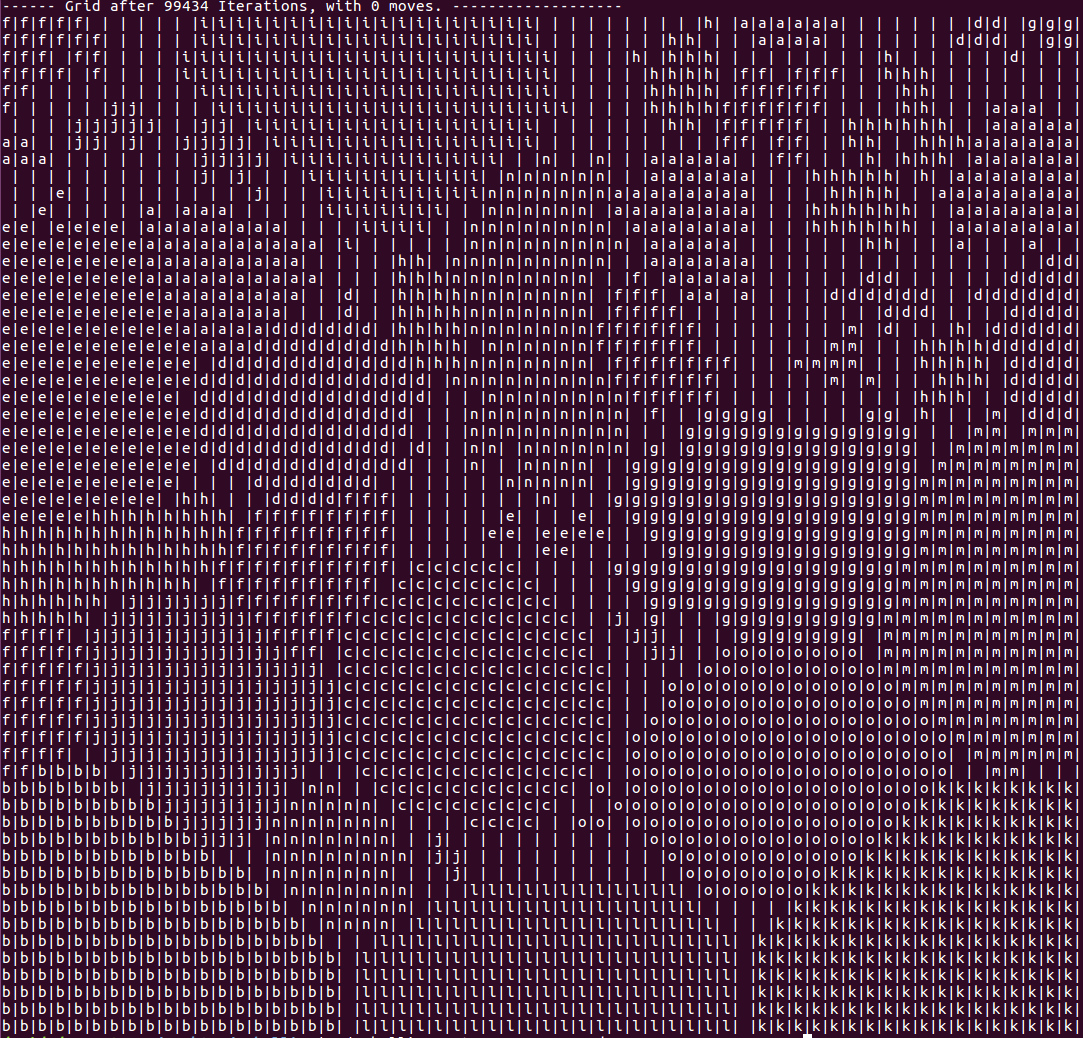
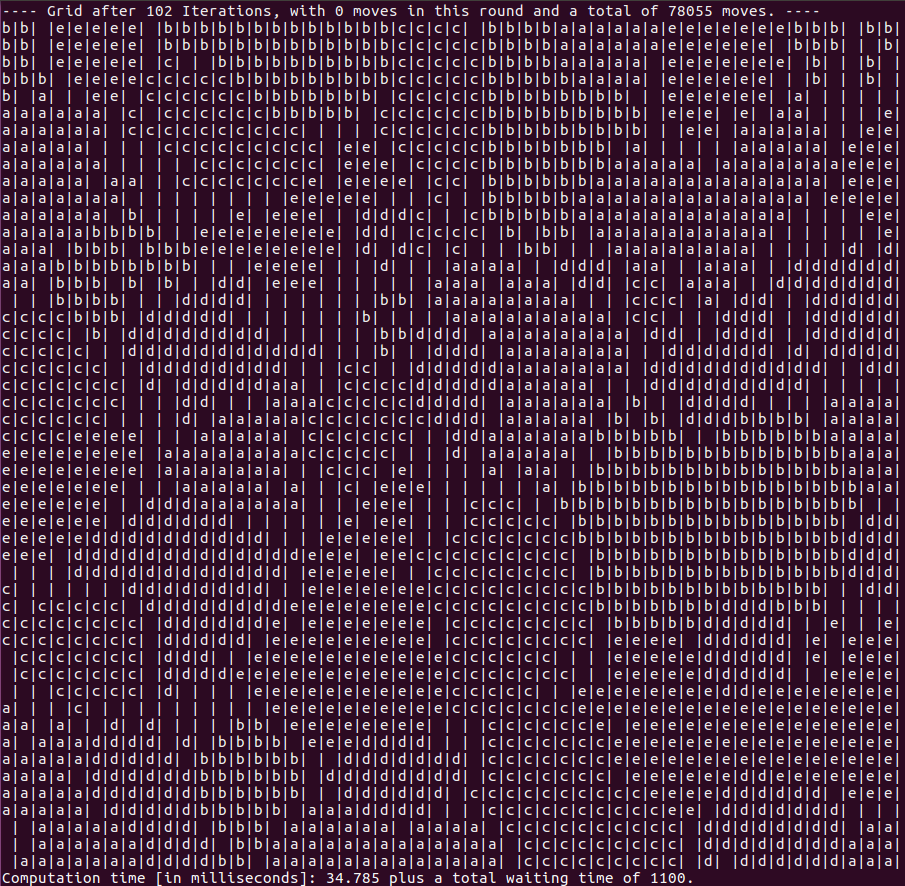
added timer and updated pictures

diff --git a/main.cpp b/main.cpp
@@ -1,157 +1,7 @@
 #include "grid.h"
-
-static void show_usage()
-{
-    std::cerr << "Usage Options:\n"
-              << "  -h,--help\t\tShow this help message\n"
-              << "  -s,--seed\t\tSet seed, defaults to current time\n"
-              << "  -g,--gridSize\t\tSpecify the length of a simulation grid, defaults to 10 (i.e., 10x10)\n"
-              << "  -p,--percEmpty\tSpecify the percentage of empty grids, defaults to 0.2\n"
-              << "  -t,--threshold\tSpecify the threshold above which agents are happy, defaults to 0.5\n"
-              << "  -n,--nRaces\t\tSpecify the number of races [2,26], defaults to 3\n"
-              << "  -m,--maxIter\t\tSpecify the maximum number of iterations, defaults to 10,000\n"
-              << "  -pi,--plotInterval\tSpecify the intervals in which the plots should be updated, defaults to 100\n"
-              << "  -d,--displayTime\tSpecify the display time for plots [in microseconds], defaults to 10,000\n";
-}
-struct Inputs {
-    unsigned int gridSize;
-    double percEmpty;
-    unsigned int nRaces;
-    unsigned int maxIter;
-    unsigned int plotInterval;
-    unsigned int sleep;
-    unsigned int seed;
-    double threshold;
-};
-Inputs handleInputs(int argc, char const *argv[]) {
-    Inputs inputs;
-    int tmp;
-    double tmpDbl;
-
-    // default values
-    inputs.gridSize = 10;
-    inputs.percEmpty = 0.2;
-    inputs.threshold = 0.5;
-    inputs.nRaces  = 3;
-    inputs.maxIter = 10000;
-    inputs.plotInterval = 100;
-    inputs.sleep = 10000;
-    inputs.seed = (unsigned int) time(0);
-
-    // check the inputs and update "inputs"
-    for (int i = 1; i < argc; ++i) {
-        std::string arg = argv[i];
-        if ((arg == "-h") || (arg == "--help")) {
-            show_usage();
-            std::exit(1);
-        } else if ((arg == "-g") || (arg == "--gridSize")) {
-            if (i + 1 < argc) { // Make sure we aren't at the end of argv!
-                tmp = std::stoi(argv[++i]);
-                if (tmp < 0) {
-                    tmp = -tmp;
-                    std::cout << "gridSize is smaller than 0, taking the absolute value of: " << tmp << "\n";
-                }
-                inputs.gridSize = (unsigned int) tmp;
-            } else { // Uh-oh, there was no argument to the destination option.
-                std::cerr << "--gridSize option requires one argument.\n";
-                std::exit(1);
-            }
-        } else if ((arg == "-p") || (arg == "--percEmpty")) {
-            if (i + 1 < argc) { // Make sure we aren't at the end of argv!
-                tmpDbl = std::stod(argv[++i]);
-                if (tmpDbl < 0) {
-                    tmpDbl = -tmpDbl;
-                    std::cout << "percEmpty is smaller than 0, taking the absolute value of: " << tmpDbl << "\n";
-                }
-                inputs.percEmpty = tmpDbl;
-            } else { // Uh-oh, there was no argument to the destination option.
-                std::cerr << "--percEmpty option requires one argument.\n";
-                std::exit(1);
-            }
-        } else if ((arg == "-t") || (arg == "--threshold")) {
-            if (i + 1 < argc) { // Make sure we aren't at the end of argv!
-                tmpDbl = std::stod(argv[++i]);
-                if (tmpDbl < 0) {
-                    tmpDbl = -tmpDbl;
-                    std::cout << "threshold is smaller than 0, taking the absolute value of: " << tmpDbl << "\n";
-                }
-                inputs.threshold = tmpDbl;
-            } else { // Uh-oh, there was no argument to the destination option.
-                std::cerr << "--threshold option requires one argument.\n";
-                std::exit(1);
-            }
-        } else if ((arg == "-n") || (arg == "--nRaces")) {
-            if (i + 1 < argc) { // Make sure we aren't at the end of argv!
-                tmp = std::stoi(argv[++i]);
-                if (tmp < 0) {
-                    tmp = -tmp;
-                    std::cout << "nRaces is smaller than 0, taking the absolute value of: " << tmp << "\n";
-                }
-                inputs.nRaces = (unsigned int) tmp;
-            } else { // Uh-oh, there was no argument to the destination option.
-                std::cerr << "--nRaces option requires one argument.\n";
-                std::exit(1);
-            }
-        } else if ((arg == "-m") || (arg == "--maxIter")) {
-            if (i + 1 < argc) { // Make sure we aren't at the end of argv!
-                tmp = std::stoi(argv[++i]);
-                if (tmp < 0) {
-                    tmp = -tmp;
-                    std::cout << "maxIter is smaller than 0, taking the absolute value of: " << tmp << "\n";
-                }
-                inputs.maxIter = (unsigned int) tmp;
-            } else { // Uh-oh, there was no argument to the destination option.
-                std::cerr << "--maxIter option requires one argument.\n";
-                std::exit(1);
-            }
-        } else if ((arg == "-pi") || (arg == "--plotInterval")) {
-            if (i + 1 < argc) { // Make sure we aren't at the end of argv!
-                tmp = std::stoi(argv[++i]);
-                if (tmp < 0) {
-                    tmp = -tmp;
-                    std::cout << "plotInterval is smaller than 0, taking the absolute value of: " << tmp << "\n";
-                }
-                inputs.plotInterval = (unsigned int) tmp;
-            } else { // Uh-oh, there was no argument to the destination option.
-                std::cerr << "--plotInterval option requires one argument.\n";
-                std::exit(1);
-            }
-        } else if ((arg == "-d") || (arg == "--displayTime")) {
-            if (i + 1 < argc) { // Make sure we aren't at the end of argv!
-                tmp = std::stoi(argv[++i]);
-                if (tmp < 0) {
-                    tmp = -tmp;
-                    std::cout << "display is smaller than 0, taking the absolute value of: " << tmp << "\n";
-                }
-                inputs.sleep = (unsigned int) tmp;
-            } else { // Uh-oh, there was no argument to the destination option.
-                std::cerr << "--displayTime option requires one argument.\n";
-                std::exit(1);
-            }
-        } else if ((arg == "-s") || (arg == "--seed")) {
-            if (i + 1 < argc) { // Make sure we aren't at the end of argv!
-                tmp = std::stoi(argv[++i]);
-                if (tmp < 0) {
-                    tmp = -tmp;
-                    std::cout << "seed is smaller than 0, taking the absolute value of: " << tmp << "\n";
-                }
-                inputs.seed = (unsigned int) tmp;
-            } else { // Uh-oh, there was no argument to the destination option.
-                std::cerr << "--seed option requires one argument.\n";
-                std::exit(1);
-            }
-        } else {
-            std::cout << "Unknown option \"" << arg << "\", known options include:\n";
-            show_usage();
-            std::exit(1);
-        }
-    }
-    return inputs;
-}
-
+#include "main.h"
 
 int main(int argc, char const *argv[]) {
-
     Inputs inputs = handleInputs(argc, argv);
 
     Grid grid = Grid(inputs.threshold, inputs.seed);

diff --git a/main.h b/main.h
@@ -1,5 +1,152 @@
 #ifndef MAIN_H
 #define MAIN_H
 
+static void show_usage()
+{
+    std::cerr << "Usage Options:\n"
+              << "  -h,--help\t\tShow this help message\n"
+              << "  -s,--seed\t\tSet seed, defaults to current time\n"
+              << "  -g,--gridSize\t\tSpecify the length of a simulation grid, defaults to 10 (i.e., 10x10)\n"
+              << "  -p,--percEmpty\tSpecify the percentage of empty grids, defaults to 0.2\n"
+              << "  -t,--threshold\tSpecify the threshold above which agents are happy, defaults to 0.5\n"
+              << "  -n,--nRaces\t\tSpecify the number of races [2,26], defaults to 3\n"
+              << "  -m,--maxIter\t\tSpecify the maximum number of iterations, defaults to 10,000\n"
+              << "  -pi,--plotInterval\tSpecify the intervals in which the plots should be updated, defaults to 100\n"
+              << "  -d,--displayTime\tSpecify the display time for plots [in microseconds], defaults to 10,000\n";
+}
+struct Inputs {
+    unsigned int gridSize;
+    double percEmpty;
+    unsigned int nRaces;
+    unsigned int maxIter;
+    unsigned int plotInterval;
+    unsigned int sleep;
+    unsigned int seed;
+    double threshold;
+};
+Inputs handleInputs(int argc, char const *argv[]) {
+    Inputs inputs;
+    int tmp;
+    double tmpDbl;
 
+    // default values
+    inputs.gridSize = 10;
+    inputs.percEmpty = 0.2;
+    inputs.threshold = 0.5;
+    inputs.nRaces  = 3;
+    inputs.maxIter = 10000;
+    inputs.plotInterval = 100;
+    inputs.sleep = 10000;
+    inputs.seed = (unsigned int) time(0);
+
+    // check the inputs and update "inputs"
+    for (int i = 1; i < argc; ++i) {
+        std::string arg = argv[i];
+        if ((arg == "-h") || (arg == "--help")) {
+            show_usage();
+            std::exit(1);
+        } else if ((arg == "-g") || (arg == "--gridSize")) {
+            if (i + 1 < argc) { // Make sure we aren't at the end of argv!
+                tmp = std::stoi(argv[++i]);
+                if (tmp < 0) {
+                    tmp = -tmp;
+                    std::cout << "gridSize is smaller than 0, taking the absolute value of: " << tmp << "\n";
+                }
+                inputs.gridSize = (unsigned int) tmp;
+            } else { // Uh-oh, there was no argument to the destination option.
+                std::cerr << "--gridSize option requires one argument.\n";
+                std::exit(1);
+            }
+        } else if ((arg == "-p") || (arg == "--percEmpty")) {
+            if (i + 1 < argc) { // Make sure we aren't at the end of argv!
+                tmpDbl = std::stod(argv[++i]);
+                if (tmpDbl < 0) {
+                    tmpDbl = -tmpDbl;
+                    std::cout << "percEmpty is smaller than 0, taking the absolute value of: " << tmpDbl << "\n";
+                }
+                inputs.percEmpty = tmpDbl;
+            } else { // Uh-oh, there was no argument to the destination option.
+                std::cerr << "--percEmpty option requires one argument.\n";
+                std::exit(1);
+            }
+        } else if ((arg == "-t") || (arg == "--threshold")) {
+            if (i + 1 < argc) { // Make sure we aren't at the end of argv!
+                tmpDbl = std::stod(argv[++i]);
+                if (tmpDbl < 0) {
+                    tmpDbl = -tmpDbl;
+                    std::cout << "threshold is smaller than 0, taking the absolute value of: " << tmpDbl << "\n";
+                }
+                inputs.threshold = tmpDbl;
+            } else { // Uh-oh, there was no argument to the destination option.
+                std::cerr << "--threshold option requires one argument.\n";
+                std::exit(1);
+            }
+        } else if ((arg == "-n") || (arg == "--nRaces")) {
+            if (i + 1 < argc) { // Make sure we aren't at the end of argv!
+                tmp = std::stoi(argv[++i]);
+                if (tmp < 0) {
+                    tmp = -tmp;
+                    std::cout << "nRaces is smaller than 0, taking the absolute value of: " << tmp << "\n";
+                }
+                inputs.nRaces = (unsigned int) tmp;
+            } else { // Uh-oh, there was no argument to the destination option.
+                std::cerr << "--nRaces option requires one argument.\n";
+                std::exit(1);
+            }
+        } else if ((arg == "-m") || (arg == "--maxIter")) {
+            if (i + 1 < argc) { // Make sure we aren't at the end of argv!
+                tmp = std::stoi(argv[++i]);
+                if (tmp < 0) {
+                    tmp = -tmp;
+                    std::cout << "maxIter is smaller than 0, taking the absolute value of: " << tmp << "\n";
+                }
+                inputs.maxIter = (unsigned int) tmp;
+            } else { // Uh-oh, there was no argument to the destination option.
+                std::cerr << "--maxIter option requires one argument.\n";
+                std::exit(1);
+            }
+        } else if ((arg == "-pi") || (arg == "--plotInterval")) {
+            if (i + 1 < argc) { // Make sure we aren't at the end of argv!
+                tmp = std::stoi(argv[++i]);
+                if (tmp < 0) {
+                    tmp = -tmp;
+                    std::cout << "plotInterval is smaller than 0, taking the absolute value of: " << tmp << "\n";
+                }
+                inputs.plotInterval = (unsigned int) tmp;
+            } else { // Uh-oh, there was no argument to the destination option.
+                std::cerr << "--plotInterval option requires one argument.\n";
+                std::exit(1);
+            }
+        } else if ((arg == "-d") || (arg == "--displayTime")) {
+            if (i + 1 < argc) { // Make sure we aren't at the end of argv!
+                tmp = std::stoi(argv[++i]);
+                if (tmp < 0) {
+                    tmp = -tmp;
+                    std::cout << "display is smaller than 0, taking the absolute value of: " << tmp << "\n";
+                }
+                inputs.sleep = (unsigned int) tmp;
+            } else { // Uh-oh, there was no argument to the destination option.
+                std::cerr << "--displayTime option requires one argument.\n";
+                std::exit(1);
+            }
+        } else if ((arg == "-s") || (arg == "--seed")) {
+            if (i + 1 < argc) { // Make sure we aren't at the end of argv!
+                tmp = std::stoi(argv[++i]);
+                if (tmp < 0) {
+                    tmp = -tmp;
+                    std::cout << "seed is smaller than 0, taking the absolute value of: " << tmp << "\n";
+                }
+                inputs.seed = (unsigned int) tmp;
+            } else { // Uh-oh, there was no argument to the destination option.
+                std::cerr << "--seed option requires one argument.\n";
+                std::exit(1);
+            }
+        } else {
+            std::cout << "Unknown option \"" << arg << "\", known options include:\n";
+            show_usage();
+            std::exit(1);
+        }
+    }
+    return inputs;
+}
 #endif

diff --git a/grid.cpp b/grid.cpp
@@ -6,9 +6,15 @@ Grid::Grid(double threshold, int seed) {
     allHappy = false;
     rng.setseed(seed);
     nMoves = 0;
+    totalSleep = 0;
+    
+    // for timing purposes    
+    gettimeofday(&t0, 0);
 }
 
 Grid::~Grid() {
+    gettimeofday(&t1, 0);
+    std::cout << "Computation time [in milliseconds]: " << timedifference_msec(t0, t1) - totalSleep << " plus a total waiting time of " <<  totalSleep << ".\n";
 }
 
 void Grid::initiate(unsigned int gridSize){
@@ -305,7 +311,8 @@ void Grid::simulate(unsigned int nMax, int plotAfter, int sleep) {
         // clears the screen
         if (nSim % plotAfter == 0) {
             drawPlot();
-            usleep(sleep);
+            totalSleep += (float) sleep/1000; // to milliseconds
+            usleep(sleep); // in microseconds
         }
         ++n;
         ++nSim;
@@ -318,4 +325,7 @@ void Grid::simulate(unsigned int nMax, int plotAfter, int sleep) {
     std::cout << "\033[2J\033[1;1H";
     std::cout << "---- Grid after " << nSim << " Iterations, with " << moves << " moves in this round and a total of " << nMoves << " moves. ----\n";
     drawPlot();
+}
+float Grid::timedifference_msec(struct timeval t0, struct timeval t1) {
+    return (t1.tv_sec - t0.tv_sec) * 1000.0f + (t1.tv_usec - t0.tv_usec) / 1000.0f;
 }

diff --git a/grid.h b/grid.h
@@ -6,6 +6,7 @@
 #include "RNG.h"
 #include <iostream>
 #include <unistd.h>
+#include <sys/time.h>
 
 class Grid {
 public:
@@ -32,6 +33,7 @@ public:
     void move();
     void countElements();
     GridEl* next(GridEl* reference);
+    float timedifference_msec(struct timeval t0, struct timeval t1);
 
 private:
     double happinessThreshold;
@@ -44,5 +46,8 @@ private:
     double findRatio(GridEl* reference);
     std::vector<char> raceChars {' ', 'a', 'b', 'c', 'd', 'e', 'f', 'g', 'h', 'i', 'j', 'k', 'l', 'm', 'n', 'o', 'p',
                                  'q', 'r', 's', 't', 'u', 'v', 'w', 'x', 'y', 'z'};
+    // timing purposes only
+    float totalSleep;
+    struct timeval t0, t1;
 };
 #endif

diff --git a/README.md b/README.md
@@ -21,7 +21,7 @@ Usage Options:
 ```
 
 ## Example:
-`./schelling.out -g 60 -n 15 -d 1000 -s 101 -m 100000` results in a final grid of
+` ./schelling.out -n 5 -g 50 -m 100000 -pi 10 -d 100000` results in a final grid of
 
 ![Final Grid](https://github.com/DavZim/SchellingCpp/raw/master/grid.png)
 
